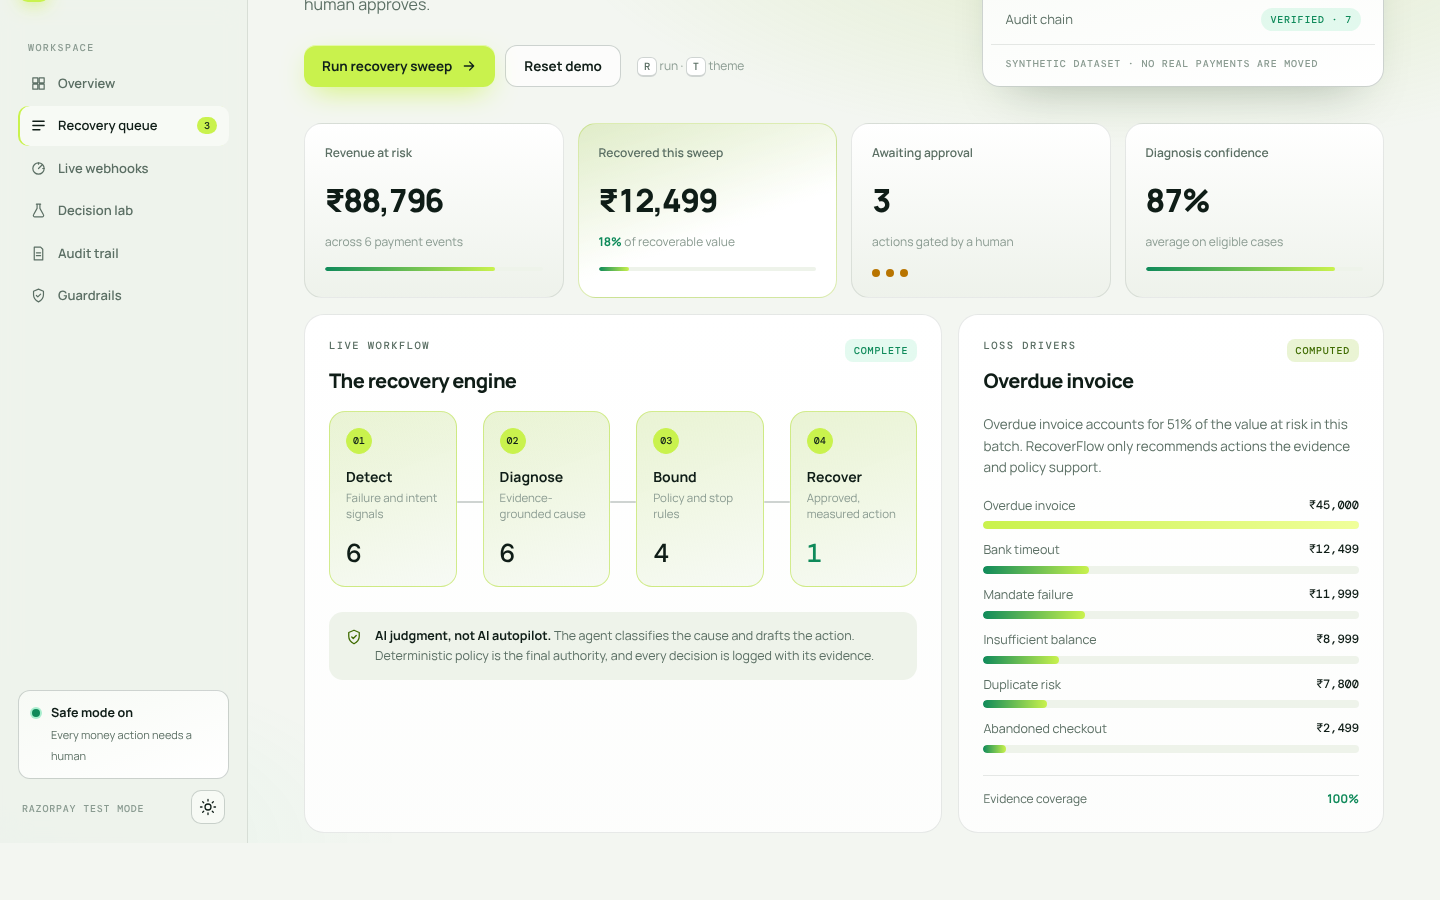
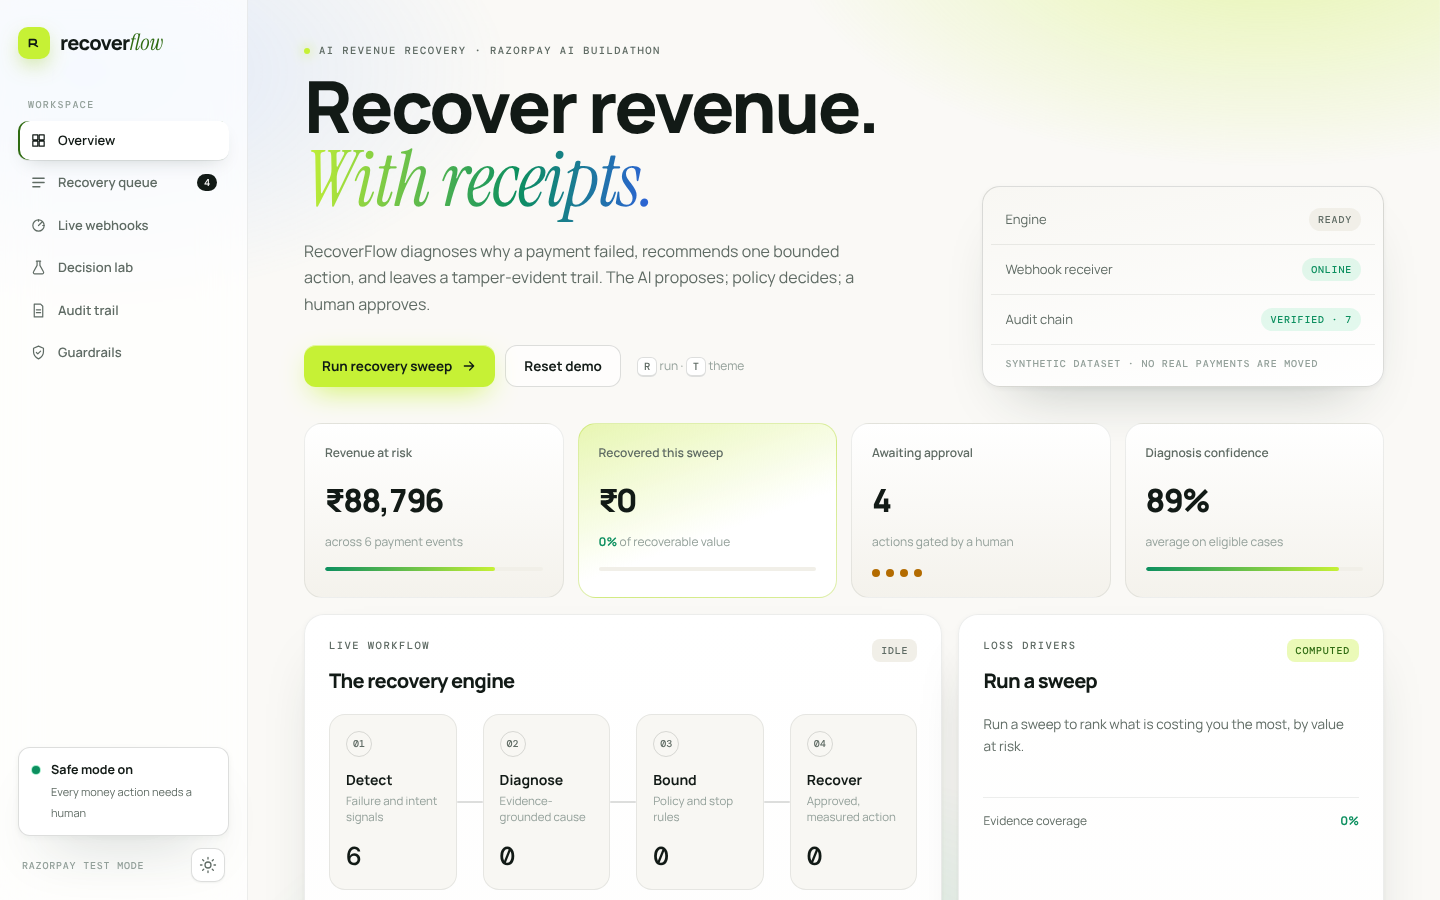
Make light theme the default with premium editorial styling
Claude-Session: https://claude.ai/code/session_01SyvscxEhMdTwQLggrcM2zs

diff --git a/public/styles.css b/public/styles.css
@@ -1,5 +1,5 @@
 /* RecoverFlow — design tokens */
-:root, [data-theme='dark'] {
+[data-theme='dark'] {
   --bg: #07100c; --bg-2: #0a1510; --panel: #0e1a14; --panel-2: #12221b; --raise: #17291f;
   --line: rgba(190, 255, 220, .09); --line-2: rgba(190, 255, 220, .16);
   --text: #eaf3ee; --muted: #8ea599; --faint: #5d7468;
@@ -9,12 +9,12 @@
   color-scheme: dark;
 }
 [data-theme='light'] {
-  --bg: #f3f6f1; --bg-2: #eef2eb; --panel: #ffffff; --panel-2: #f7faf5; --raise: #eef3ea;
-  --line: rgba(16, 40, 28, .1); --line-2: rgba(16, 40, 28, .2);
-  --text: #0f1d17; --muted: #5b6f64; --faint: #8a9b91;
-  --lime: #c9f24d; --lime-ink: #10201a; --lime-text: #3f6b00;
-  --green: #0f8a5a; --amber: #b87400; --red: #c43f3f; --blue: #1f6fb5;
-  --glow: rgba(150, 200, 40, .2); --shadow: 0 24px 50px -28px rgba(20, 50, 30, .35);
+  --bg: #faf9f6; --bg-2: #f4f2ec; --panel: #ffffff; --panel-2: #f8f7f3; --raise: #f1efe8;
+  --line: rgba(24, 32, 28, .08); --line-2: rgba(24, 32, 28, .15);
+  --text: #121a16; --muted: #5f6b64; --faint: #93a09a;
+  --lime: #c6f135; --lime-ink: #0f1a14; --lime-text: #2f6b12;
+  --green: #0c8f5f; --amber: #b36b00; --red: #c53a3a; --blue: #2f5fe0;
+  --glow: rgba(198, 241, 53, .35); --shadow: 0 30px 60px -30px rgba(30, 50, 40, .28), 0 2px 6px rgba(30, 50, 40, .05);
   color-scheme: light;
 }
 
@@ -336,4 +336,29 @@ dialog h2 { font-size: 22px; letter-spacing: -.03em; margin-top: 4px; }
 @media (max-width: 560px) {
   .kpis, .policy-grid, .foot-grid { grid-template-columns: 1fr; }
   .kpi strong { font-size: 28px; }
+}
+
+
+/* ---- Light theme: editorial, airy, premium ---- */
+[data-theme='light'] body::before {
+  background:
+    radial-gradient(48% 38% at 88% -8%, rgba(198,241,53,.38), transparent 70%),
+    radial-gradient(42% 36% at 6% 8%, rgba(120,170,255,.20), transparent 70%),
+    radial-gradient(50% 40% at 50% 112%, rgba(61,220,151,.16), transparent 70%);
+  animation: drift 18s ease-in-out infinite alternate;
+}
+@keyframes drift { to { transform: translate3d(-1.5%, 1.5%, 0) scale(1.04); } }
+[data-theme='light'] .sidebar { background: rgba(255,255,255,.72); backdrop-filter: blur(22px) saturate(1.4); }
+[data-theme='light'] .nav a.active { background: #fff; box-shadow: 0 1px 0 var(--line), 0 8px 20px -10px rgba(30,50,40,.25), inset 2px 0 0 var(--lime-text); }
+[data-theme='light'] .brand-mark { box-shadow: 0 8px 22px -6px rgba(150,200,20,.7); }
+[data-theme='light'] h1, [data-theme='light'] h2 { letter-spacing: -.035em; }
+[data-theme='light'] .safe-box { background: #fff; box-shadow: var(--shadow); }
+[data-theme='light'] .badge { background: var(--text); color: #fff; }
+[data-theme='light'] .icon-btn { background: #fff; box-shadow: 0 1px 2px rgba(30,50,40,.06); }
+[data-theme='light'] .card, [data-theme='light'] .status-card, [data-theme='light'] .metric {
+  box-shadow: var(--shadow);
+}
+@media (prefers-reduced-motion: no-preference) {
+  [data-theme='light'] .card, [data-theme='light'] .metric { transition: transform .35s cubic-bezier(.2,.8,.2,1), box-shadow .35s; }
+  [data-theme='light'] .card:hover, [data-theme='light'] .metric:hover { transform: translateY(-3px); box-shadow: 0 40px 70px -34px rgba(30,50,40,.35); }
 }

diff --git a/public/index.html b/public/index.html
@@ -1,11 +1,11 @@
 <!doctype html>
-<html lang="en" data-theme="dark">
+<html lang="en" data-theme="light">
   <head>
     <meta charset="UTF-8" />
     <meta name="viewport" content="width=device-width, initial-scale=1.0" />
     <title>RecoverFlow — Revenue Recovery Control Room</title>
     <meta name="description" content="Policy-first AI revenue recovery for Razorpay payments. Diagnose failures, bound every action, and keep a tamper-evident audit trail." />
-    <meta name="theme-color" content="#08100d" />
+    <meta name="theme-color" content="#faf9f6" />
     <link rel="icon" href="favicon.svg" type="image/svg+xml" />
     <link rel="preconnect" href="https://fonts.googleapis.com" />
     <link rel="preconnect" href="https://fonts.gstatic.com" crossorigin />

diff --git a/public/theme.js b/public/theme.js
@@ -2,7 +2,7 @@
 (function () {
   try {
     var saved = localStorage.getItem('rf-theme');
-    var theme = saved || (window.matchMedia && window.matchMedia('(prefers-color-scheme: light)').matches ? 'light' : 'dark');
+    var theme = saved || 'light';
     document.documentElement.setAttribute('data-theme', theme);
   } catch (e) { /* storage blocked: keep default */ }
 })();

diff --git a/README.md b/README.md
@@ -25,9 +25,9 @@ Revenue loss is rarely a single failure: a payment can time out after OTP, a sub
 
 ## Screenshots
 
-| Dark (default) | Light |
+| Light (default) | Dark |
 |---|---|
-| ![Dashboard dark](docs/dashboard-dark.png) | ![Dashboard light](docs/dashboard-light.png) |
+| ![Dashboard light](docs/dashboard-light.png) | ![Dashboard dark](docs/dashboard-dark.png) |
 
 | Decision lab | Mobile |
 |---|---|
@@ -118,7 +118,7 @@ Amounts are always integers in **paise**.
 
 ## UI
 
-Dark-first dashboard with a light theme toggle, animated recovery sweep, approval gate, live webhook feed and audit-chain verification, a Decision lab that posts editable events to `/api/diagnose`, and a batch simulator. Sweep classifications and the live feed come from the real engine/API; the batch simulator uses clearly labelled illustrative constants. Shortcuts: `R` run sweep, `T` toggle theme.
+Light-first dashboard with a dark theme toggle, animated recovery sweep, approval gate, live webhook feed and audit-chain verification, a Decision lab that posts editable events to `/api/diagnose`, and a batch simulator. Sweep classifications and the live feed come from the real engine/API; the batch simulator uses clearly labelled illustrative constants. Shortcuts: `R` run sweep, `T` toggle theme.
 
 ## Security notes
 
